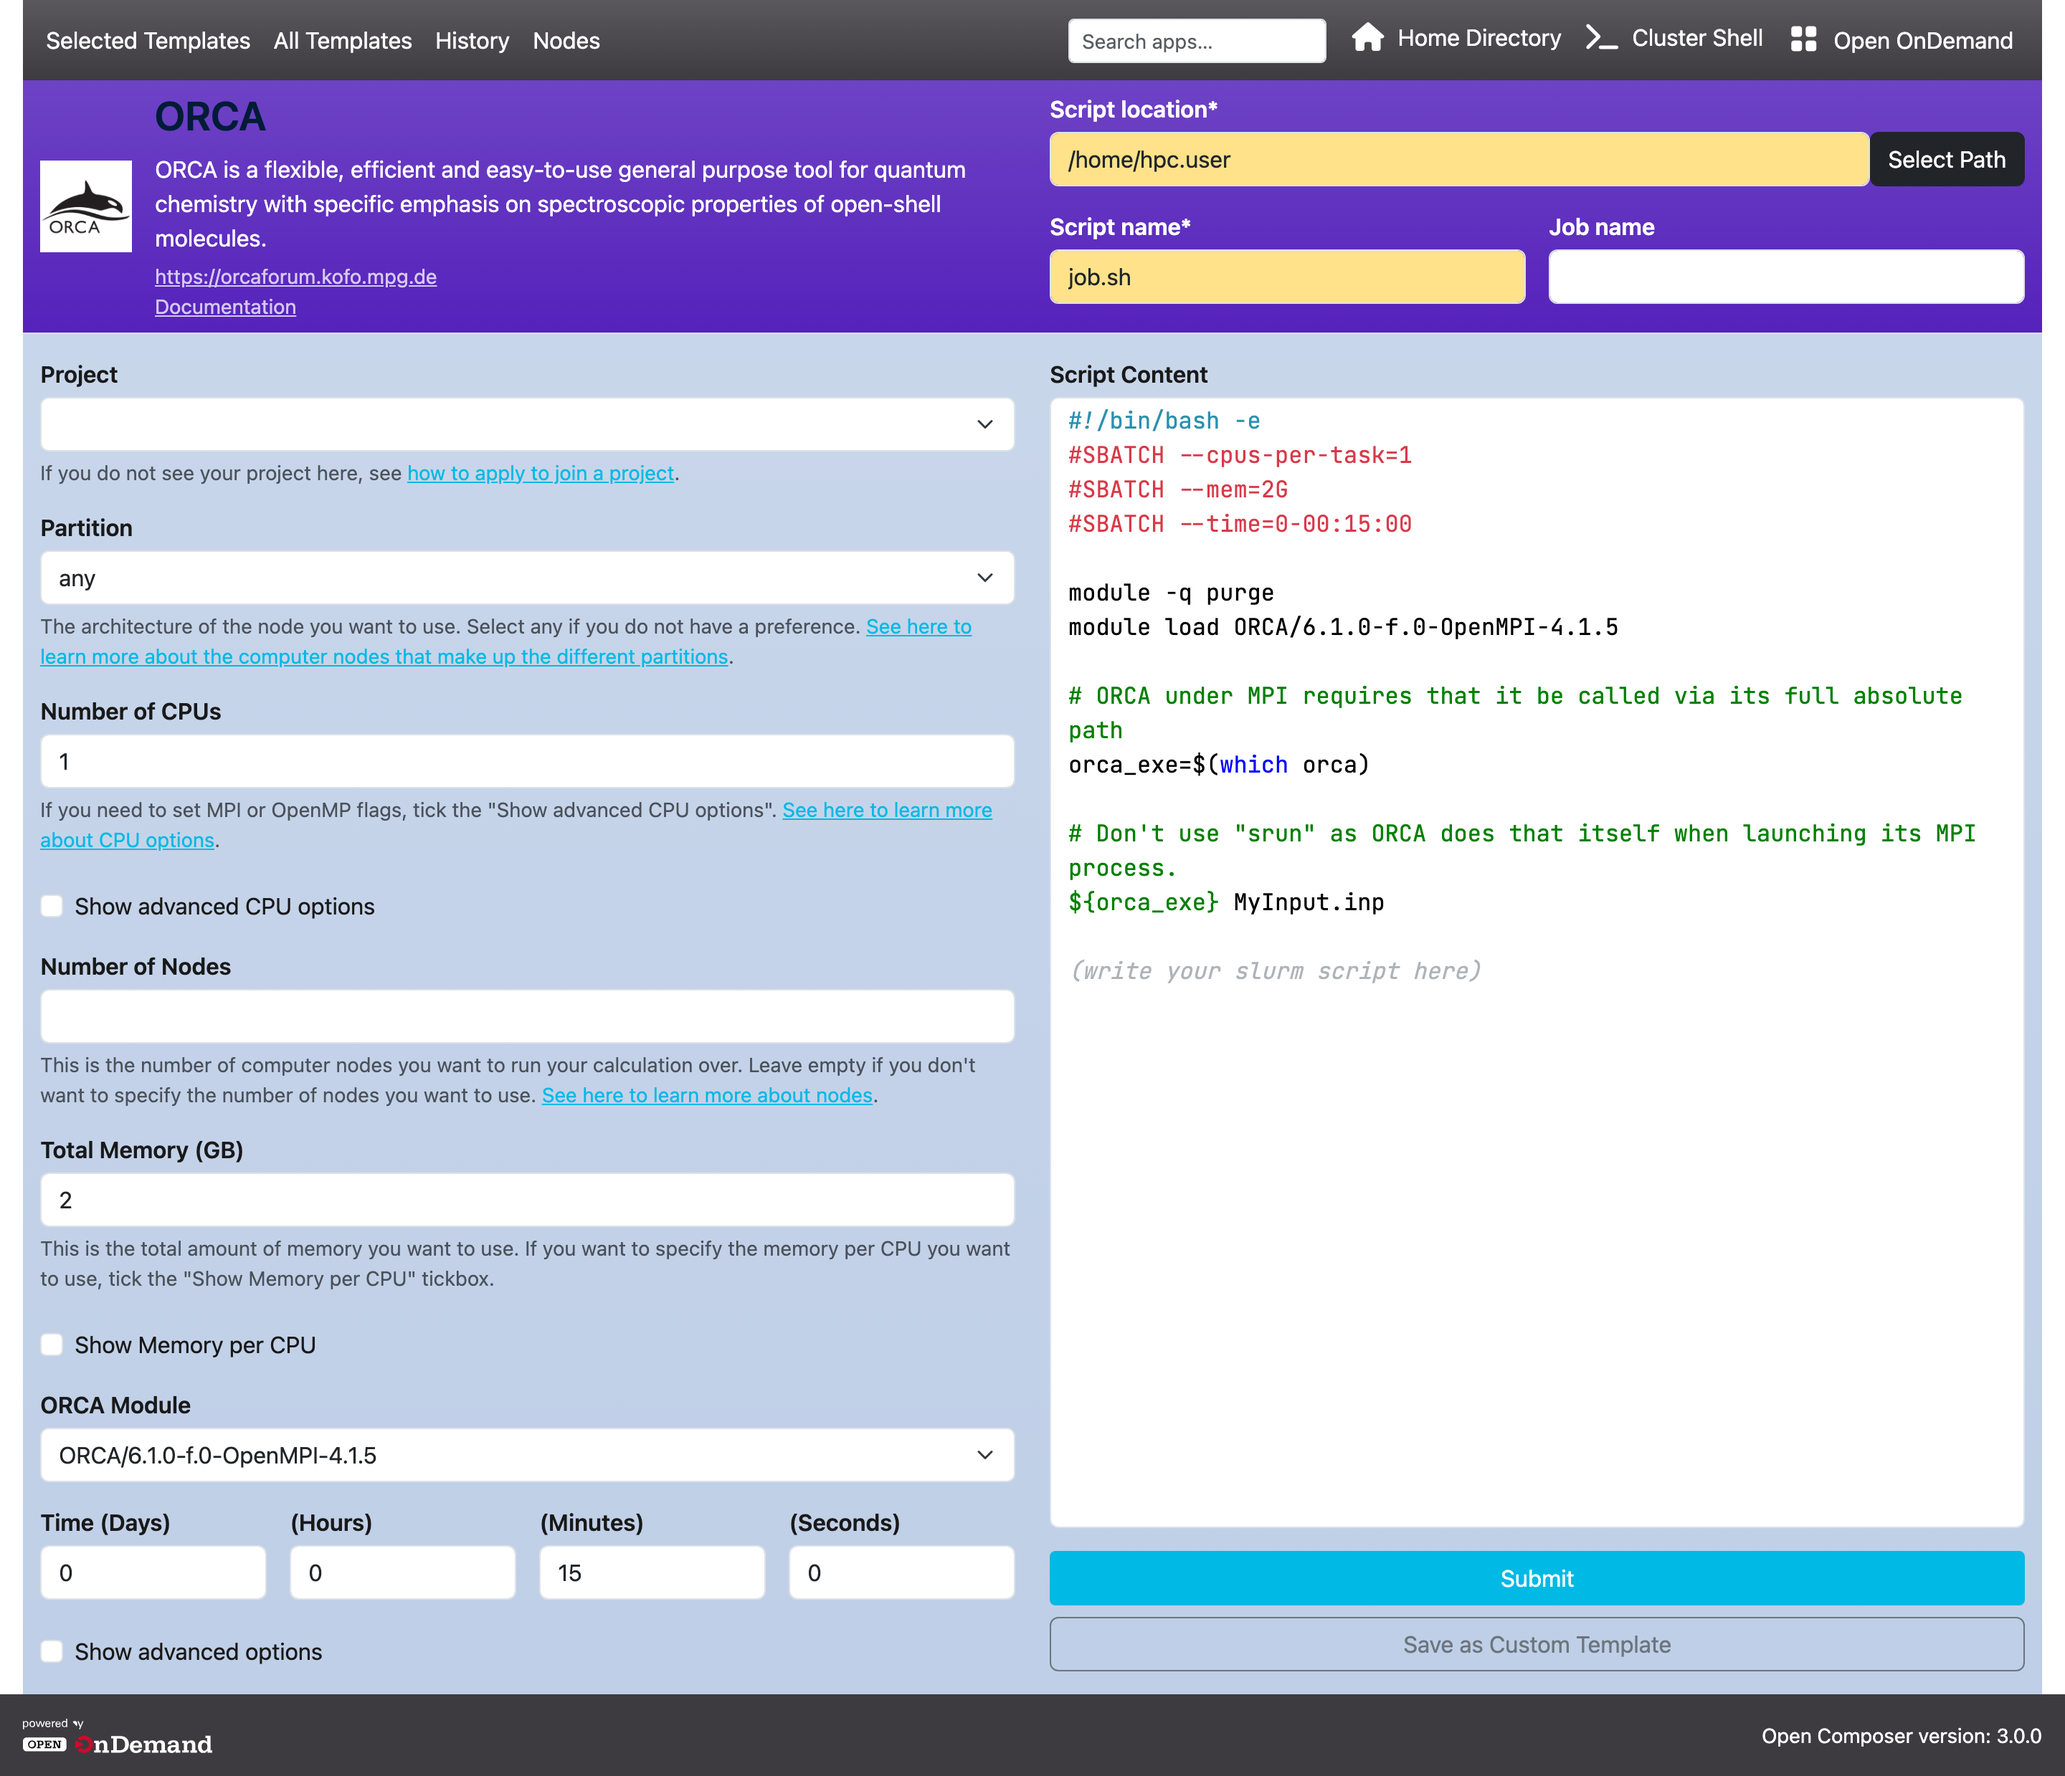
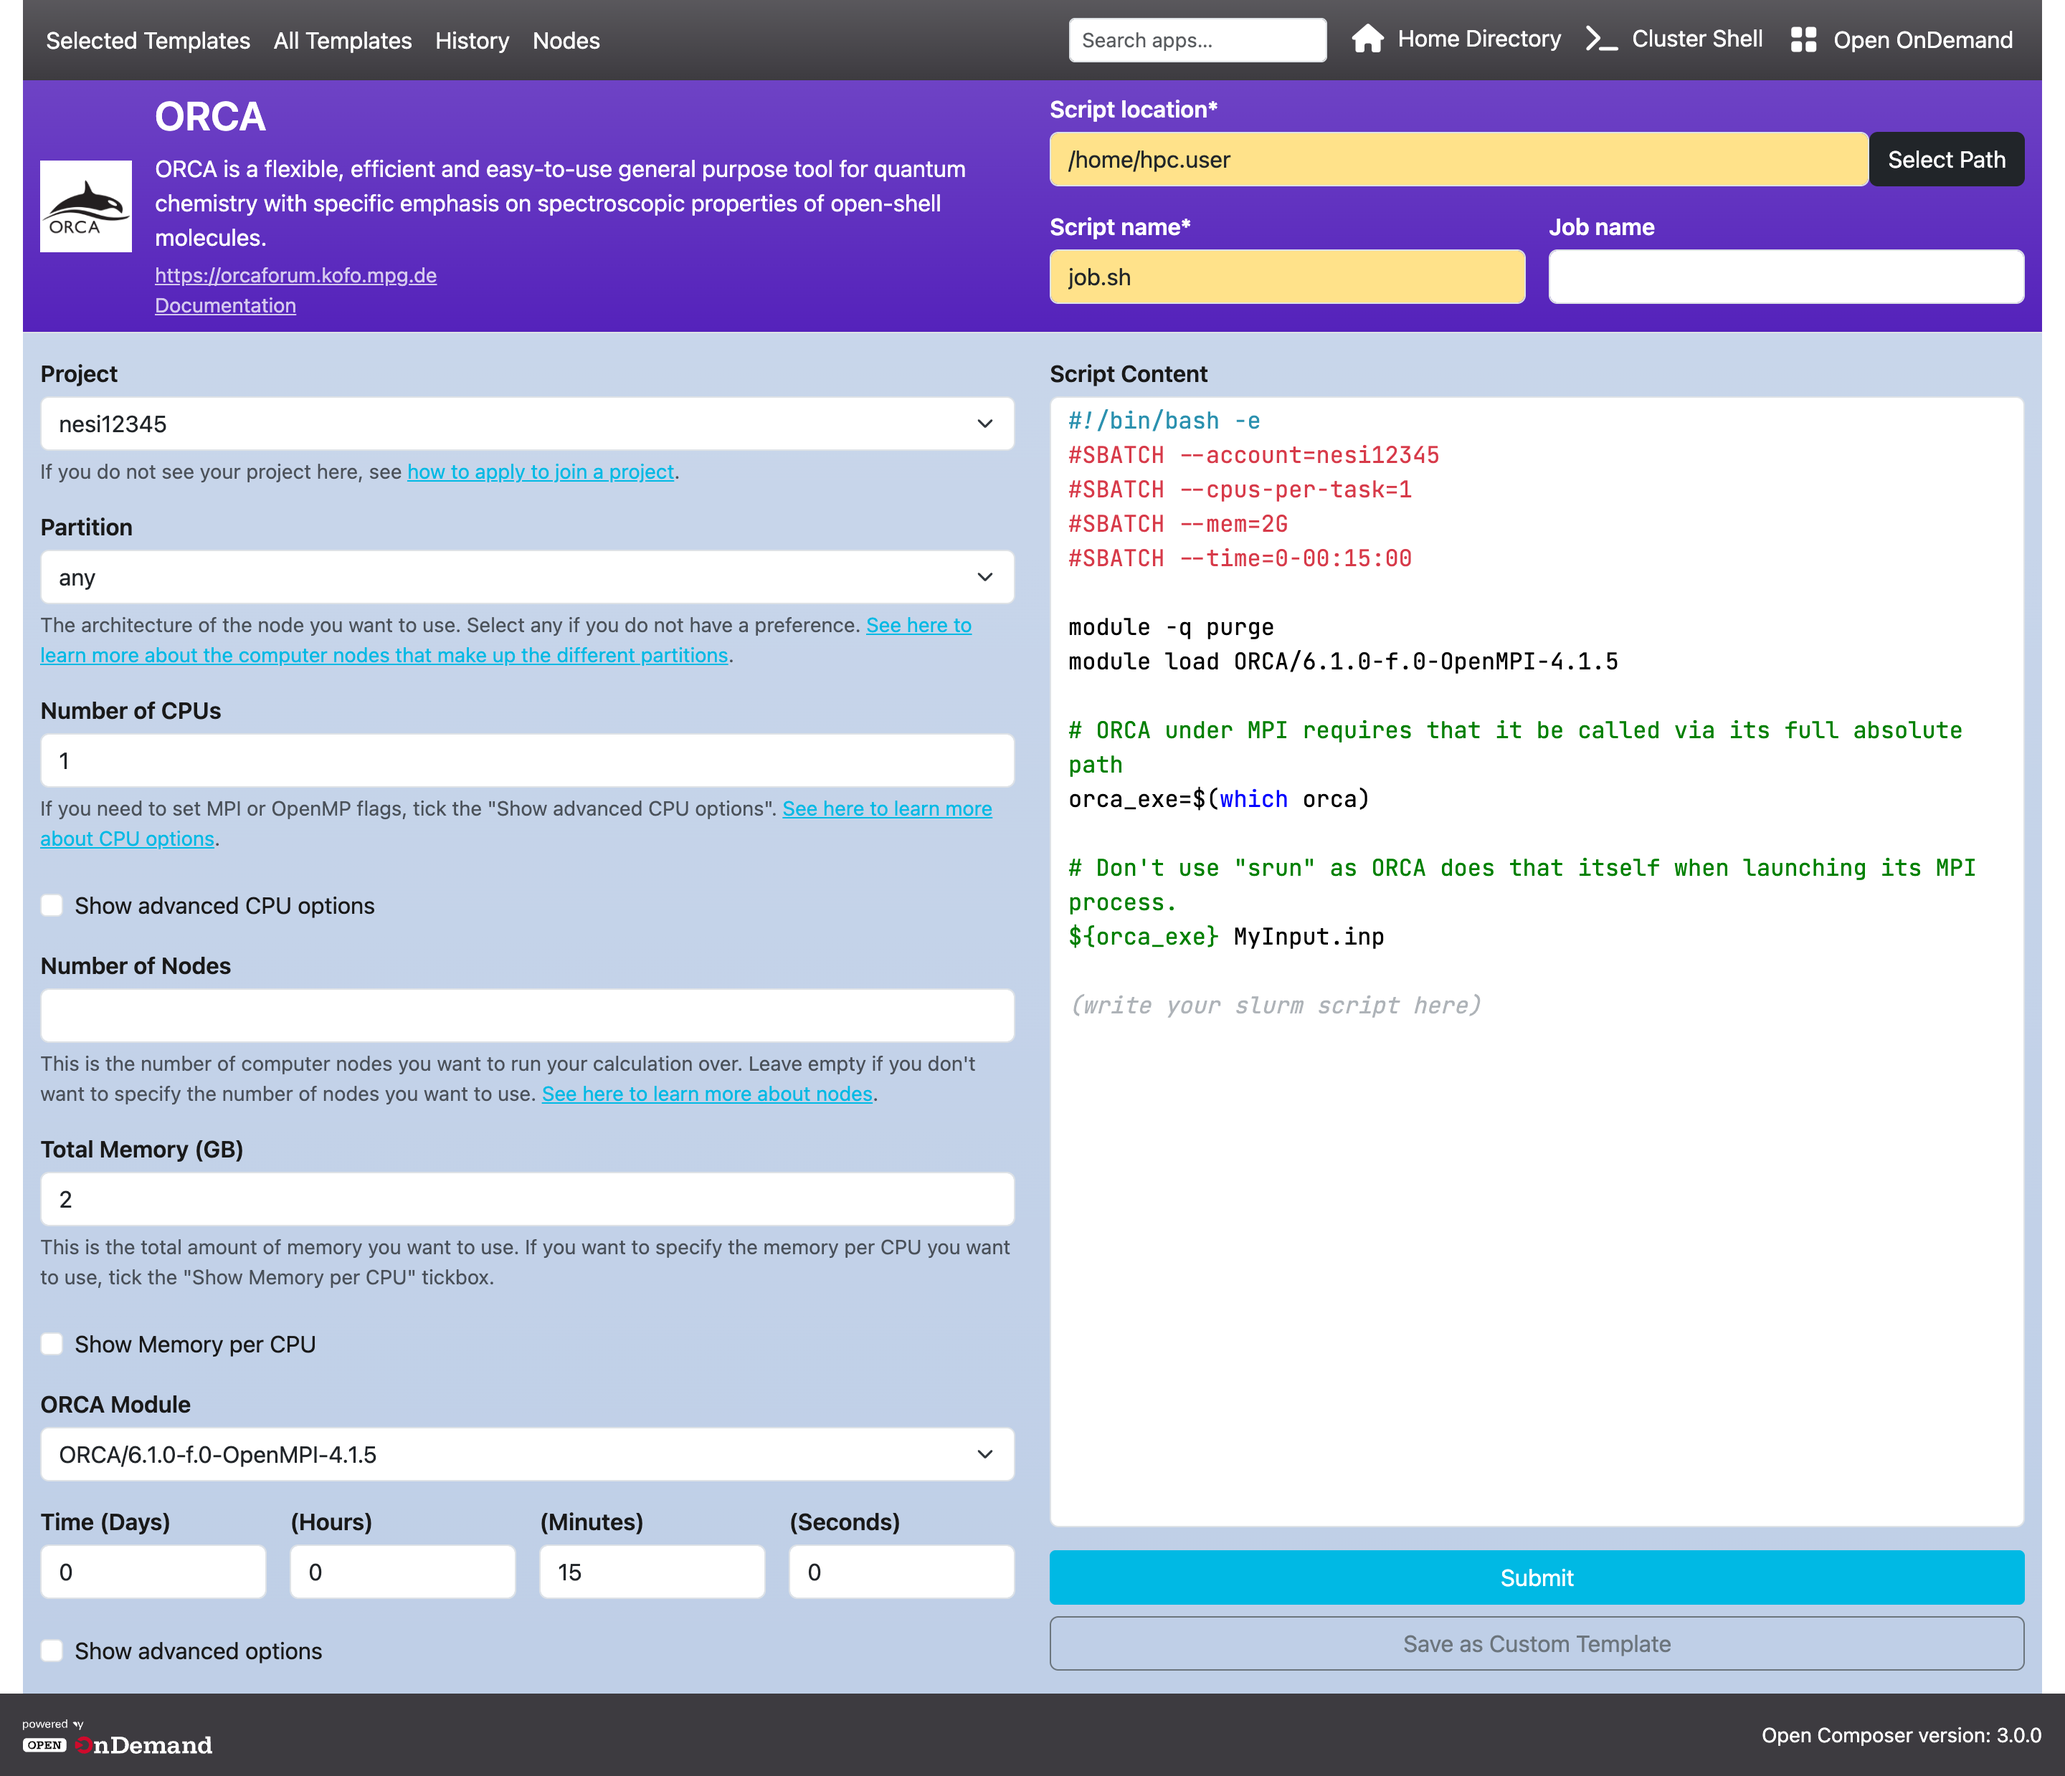
update version of the NeSI OOD OpenComposer App

diff --git a/docs/install.html b/docs/install.html
@@ -183,8 +183,10 @@ $ sudo cp conf.yml.erb.sample conf.yml.erb</pre>
         <tr><td>directive_color</td><td>Text color of scheduler directives in the <code>script</code>/<code>submit</code> sections</td><td style="background-color: #D73A49;">#D73A49</td></tr>
         <tr><td>category_color</td><td>Background color of the home page category headers</td><td rowspan="2" style="color: white; background-color: #5522BB;">#5522BB</td></tr>
         <tr><td>category_text_color</td><td>Text color of the home page category headers</td></tr>
-        <tr><td>description_color</td><td>Background color of the application description in the application page</td><td rowspan="2" style="color: white; background-color: #5522BB;">#5522BB</td></tr>
-        <tr><td>description_text_color</td><td>Text color of the application description in the application page</td></tr>
+        <tr><td>description_color</td><td>Background color of the band at the top of the application page, which holds the application title, its description and the header fields</td><td style="color: white; background-color: #5522BB;">#5522BB</td></tr>
+        <tr><td>description_text_color</td><td>Text color used on that band — including the header field labels ("Script location", "Script name", "Job name"). Also the fallback for the two settings below</td><td><code>#FFFFFF</code></td></tr>
+        <tr><td>app_title_color</td><td>Color of the <strong>application title</strong> (the application name shown at the top of the application page). Set this separately when the title needs to differ from the rest of the band — for example because a heading color inherited from the surrounding theme is hard to read against <code>description_color</code></td><td>Value of <code>description_text_color</code></td></tr>
+        <tr><td>app_description_text_color</td><td>Color of the <strong>application description</strong> shown beneath the title on the application page (taken from <code>description</code> in the app's <code>manifest.yml</code>)</td><td>Value of <code>description_text_color</code></td></tr>
         <tr><td>form_color</td><td>Background color of the text area in the application page</td><td style="background-color: #BFCFE7;">#BFCFE7</td></tr>
         <tr><td>non_script_color</td><td>Background color of the form that does not affect the <code>script</code> section</td><td style="background-color: #FFE28A;">#FFE28A</td></tr>
         <tr><td>non_script_button_color</td><td>Background color of buttons that do not affect the <code>script</code> section</td><td style="background-color: #FFBF00;">#FFBF00</td></tr>

diff --git a/run.rb b/run.rb
@@ -216,6 +216,10 @@ def create_conf
   conf["category_text_color"]     ||= "#FFFFFF"
   conf["description_color"]       ||= conf["category_color"]
   conf["description_text_color"] ||= "#FFFFFF"
+  # Application page: the title and the description sit on the description_color
+  # band and default to its text colour, but can each be set independently.
+  conf["app_title_color"]            ||= conf["description_text_color"]
+  conf["app_description_text_color"] ||= conf["description_text_color"]
   conf["form_color"]              ||= "#BFCFE7"
   conf["non_script_color"]        ||= "#FFE28A"
   conf["non_script_button_color"] ||= "#FFBF00"

diff --git a/CHANGELOG.md b/CHANGELOG.md
@@ -115,6 +115,9 @@
 - **Search box** can be shown/hidden (`show_search`) and now sits on the right of the navbar.
   It searches every template by name, category and description — hidden applications and your
   own saved templates included.
+- **`app_title_color` and `app_description_text_color`** — the application title and its
+  description on the application page can each be coloured independently of the rest of the
+  band. Both default to `description_text_color`, so existing configurations are unaffected.
 - **`favicon`**, **footer brand logo** (`footer_brand_logo`/`footer_brand_url`/`footer_brand_alt`,
   replacing the fixed OnDemand logo), an **app description** blurb (`app_description`), and a
   **separator** under the top bar (`show_navbar_separator`/`navbar_separator_color`) are all
@@ -156,6 +159,10 @@
   its categories, on both the home page and the New Custom Template picker.
 - **`dependent_module_select` values were not available to the `check` section**, leaving the
   corresponding `@` variable `nil`. They are now passed through like `module_load` values.
+- **The application title was unreadable on the application page.** The title inherited a
+  heading colour from the surrounding theme rather than the band's own text colour, so it
+  rendered dark on the coloured `description_color` band while the description beside it was
+  light. The colour is now applied to the heading directly, via `app_title_color`.
 - **The Shell Access navbar link was rendered even with no `login_node` configured**,
   producing a link to an empty host. It is now hidden unless a login node is known, matching
   the equivalent links on the application and history pages.
